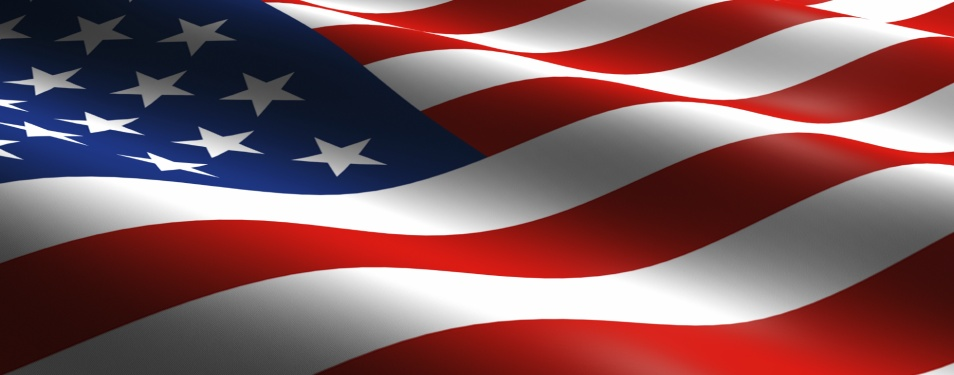
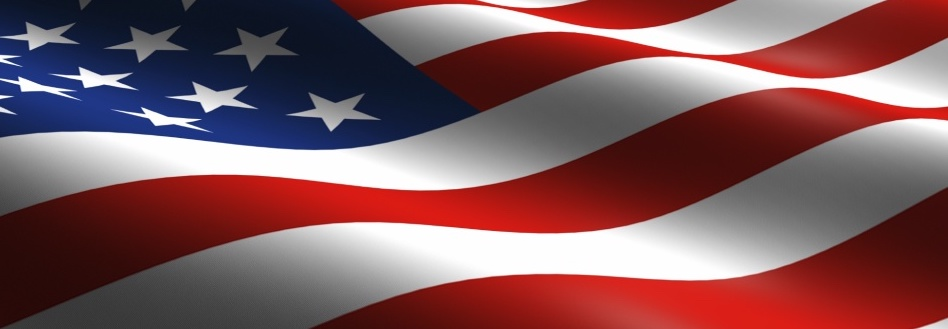
updated home/about images, removed text shadow on home/about/how pages, updated content on home page

diff --git a/app/assets/stylesheets/pages.scss b/app/assets/stylesheets/pages.scss
@@ -26,7 +26,6 @@ h1.home-title {
   font-size: 7em;
   color: $white;
   text-align: center;
-  text-shadow: 2px 2px 1px gray;
 }
 
 #home-header {
@@ -42,7 +41,6 @@ h1.home-title {
   color: $white;
   letter-spacing: 2px;
   text-align: center;
-  text-shadow: 2px 2px 1px gray;
   padding-bottom: 20px;
 }
 
@@ -169,16 +167,14 @@ h1.home-title {
       margin-left: 20vh;
       margin-bottom: 20vh;
       max-width: 50%;
-      background-color: rgba(1, 45, 1, 0.6);
+      background-color: rgba(1, 45, 1, 0.8);
       border-radius: 15px;
-      box-shadow: 3px 3px 5px #888;
       padding: 20px;
 
       h1 {
         margin: 0;
         font: $h1;
         color: white;
-        text-shadow: 3px 3px 5px #666;
 
       }
 
@@ -186,7 +182,6 @@ h1.home-title {
         font: $h4;
         color: white;
         text-align: justify;
-        text-shadow: 2px 2px 3px #222;
       }
     }
 
@@ -217,7 +212,7 @@ h1.home-title {
     margin: 0 auto;
     text-align: center;
     // color: white;
-    background-color: rgba(1, 45, 1, 0.6);
+    background-color: rgba(1, 45, 1, 0.8);
     border-radius: 15px;
     box-shadow: 3px 3px 5px #888;
     padding: 10px;
@@ -273,15 +268,12 @@ h1.home-title {
         text-align: center;
         font: $h1;
         color: white;
-        text-shadow: 3px 3px 5px #666;
-
       }
 
       h3 {
         font: $h4;
         color: white;
         text-align: justify;
-        text-shadow: 2px 2px 3px #222;
       }
 
       ul {
@@ -464,15 +456,12 @@ h1.home-title {
           text-align: center;
           font: $h1;
           color: white;
-          text-shadow: 3px 3px 5px #666;
-
         }
 
         h3 {
           font: $h4;
           color: white;
           text-align: justify;
-          text-shadow: 2px 2px 3px #222;
         }
 
         ul {

diff --git a/app/assets/stylesheets/_backgrounds.scss b/app/assets/stylesheets/_backgrounds.scss
@@ -19,7 +19,7 @@
 }
 
 #homepage:after {
-  @include hero-image("flag1", 0.4);
+  @include hero-image("new-flag", 0.7);
 }
 
 #about:after {
